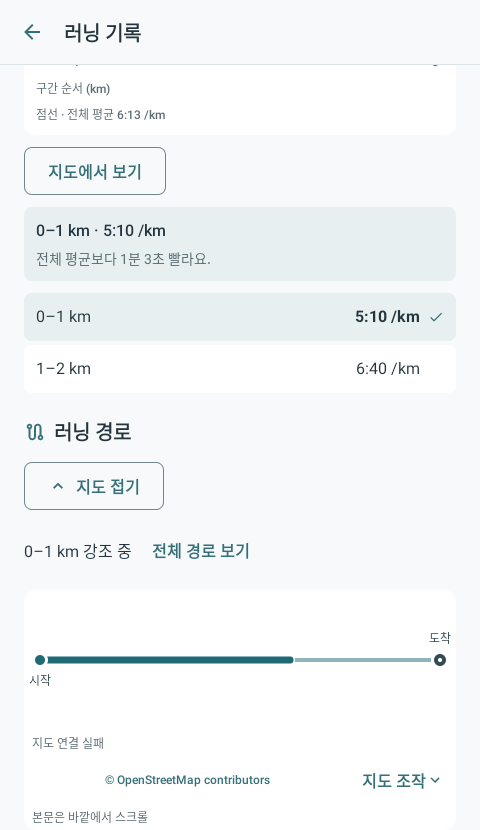
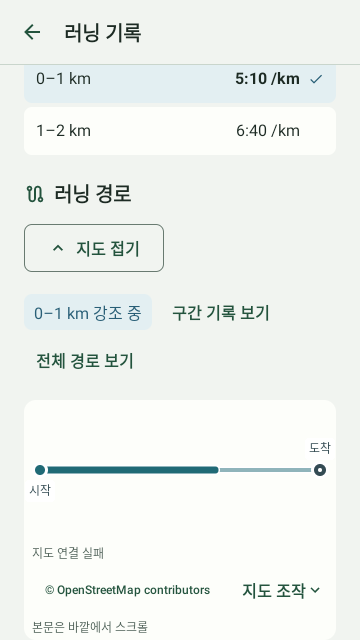
docs: record final Runmoni 0.13 review screens

diff --git a/docs/app-review/2026-11-29-outdoor-and-review/README.md b/docs/app-review/2026-11-29-outdoor-and-review/README.md
@@ -1,5 +1,11 @@
 # 런모니 0.13.0-dev 검토
 
+## 기본 글씨 화면과 옷장
+
+- 일반 전화기 폭에서 홈의 출발 버튼, 선택 탭, 인터벌의 큰 수치와 GPS 안내를 확인했다. 라이트·다크 배색에서 주요 버튼 대비는 8.84:1·8.63:1, 선택 탭 글자 대비는 10.21:1·8.61:1이다. [라이트 홈](palette-home-390-light-fixture.png) · [다크 홈](palette-home-390-dark-fixture.png) · [라이트 야외 집중](palette-outdoor-390-light-fixture.png) · [다크 야외 집중](palette-outdoor-390-dark-fixture.png)
+- 옷장의 상의·하의·신발 목록에서 색상표를 바로 열고, 같은 목록으로 돌아간다. 헤어 목록은 모자 없이 윤곽을 확대해 보여 주며 실제 피팅에서는 착용한 모자를 표시한다. 기본 머리와 슬림 쇼트·사이드 파트·로우 번을 비교할 수 있다. [색상표 바로가기](closet-color-shortcut-411-fixture.png) · [Android 헤어 목록](closet-hair-411-fixture.png) · [헤어 전후 비교와 제작 기록](../../design/avatars/hair-shapes-v1/README.md)
+- 새 기록에서 지도에 선택한 구간을 강조하고, `구간 기록 보기`로 선택을 유지한 채 돌아간다. 러닝을 일시정지할 때 멈춘 시간과 상태를 함께 화면에 반영한다. [구간 경로와 복귀](run-lap-highlight-fixture.png)
+
 ## 화면과 동작
 
 - 야외 집중 화면에서 일반 러닝은 거리를, 인터벌은 현재 단계와 남은 시간을 크게 보여준다. GPS 상태는 글자로 구분하고 일시정지와 종료는 하단에 둔다. 집중 화면을 닫아도 러닝은 이어진다. [거리 중심 화면](run-outdoor-distance-320-font2-fixture.png) · [인터벌 화면](run-outdoor-interval-320-font2-fixture.png)
@@ -12,9 +18,16 @@
 - 화면 폭에 따라 20·24·32dp의 바깥 여백과 48dp의 주요 터치 영역을 사용한다. 한눈에 읽는 거리와 시간에 고정폭 숫자를 쓰고 단위를 숫자에 맞춘다.
 - 상태 글자를 얹는 트랙 화면은 짙은 청록 표면을 사용한다. 달리기와 회복이 전환될 때 약 150ms 동안 강조선을 움직인다. 동작 줄이기 설정에서는 즉시 전환하고, 초 단위 타이머 갱신에는 강조선 효과를 반복하지 않는다. [공통 디자인 기준](../../../DESIGN.md)
 
-## 검증 범위
+## 첫 후보 검증 범위
 
 - 단위 테스트 300개를 통과했다. API 29 전용 에뮬레이터에서 버전 코드 37을 38로 업데이트하고 MainActivity 홈이 열리는 것을 확인했다.
 - 실제 Android 화면에 검토용 기록과 인터벌 시계를 넣어 캡처했다. 320dp·글자 200%에서 두 가지 집중 화면의 수치, GPS 문구와 48dp 하단 조작을 검사했다. 준비 화면으로 복귀할 때 자동 출발하지 않으며, 닫았다 다시 연 기록에도 오래된 클릭이 적용되지 않는다.
 - 앱 APK가 같은 상태에서 Android 검사 9개가 통과했다. 처음 9개 중 8개가 통과했고, 인터벌 강조선의 단일 픽셀 색을 찾던 검사를 보완했다. 같은 APK의 재실행에서 중간 프레임·같은 단계에서의 유지·동작 줄이기의 즉시 전환을 확인했다.
 - 지도 캡처는 검토용 좌표와 오프라인 타일을 사용했다. 실제 야외 GPS와 온라인 지도, 휴대폰 위젯, 음성·진동은 이 검증 범위에 포함되지 않는다.
+
+## 최종 후보 검증
+
+- 단위 테스트 300개와 API 29 에뮬레이터 검사 19개를 통과했다. 기본 글씨 크기의 360·390·411dp에서 지도 복귀, 홈·러닝의 라이트·다크, 옷장 목록·색상 왕복을 검사했다. 옷장 복귀를 보완한 APK에서 1개와 18개로 나누어 다시 실행했다.
+- Android에서 기본 헤어와 새 3종의 남녀 각 8포즈를 렌더했다. 모자 조합과 썸네일에서도 기존 착용 상태와 새 윤곽을 확인했다. 에뮬레이터 종료 후 연결된 AVD가 없는 것을 확인했다.
+- 위젯은 Android RemoteViews에서 테마 대비와 종료·저장 조작을 검사했다. 주입한 위치로 백그라운드 기록과 일시정지의 시간 고정을 확인했다. 실제 휴대폰의 화면 잠금·런처, 야외 GPS와 음성·진동은 실기기 확인이 남아 있다.
+- 모션과 화면은 개발 APK에서 검사했다. 서명 APK의 버전과 출처는 공개 릴리스 자산을 기준으로 삼는다. [최종 서명 빌드](https://github.com/wjdals988/runmoni/actions/runs/46170090713)
